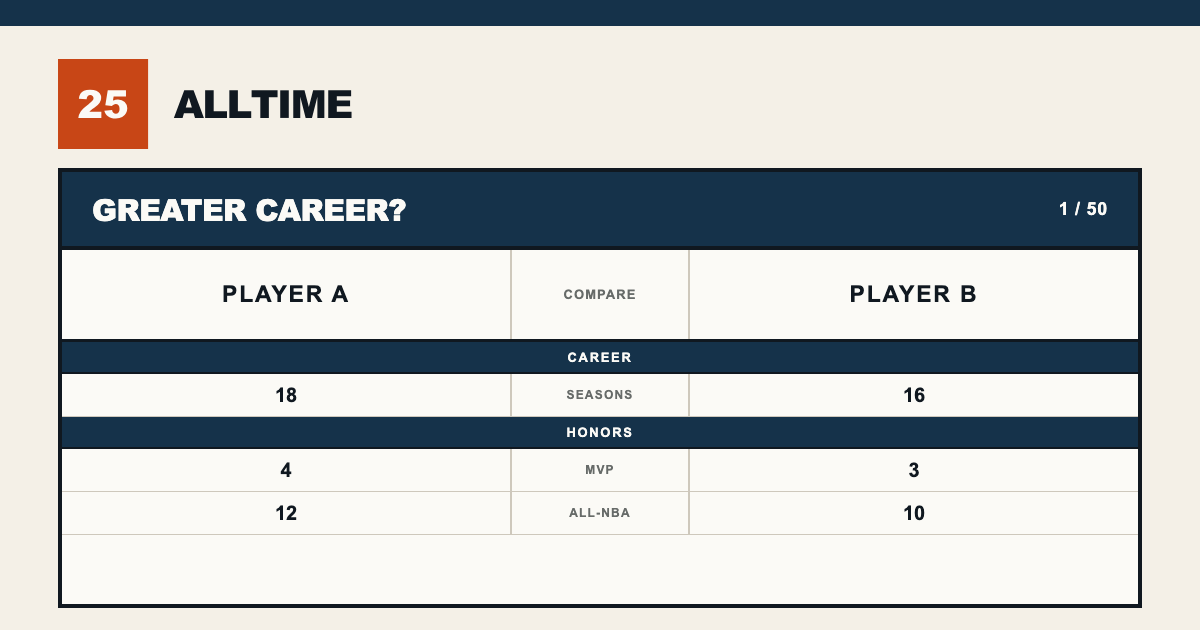
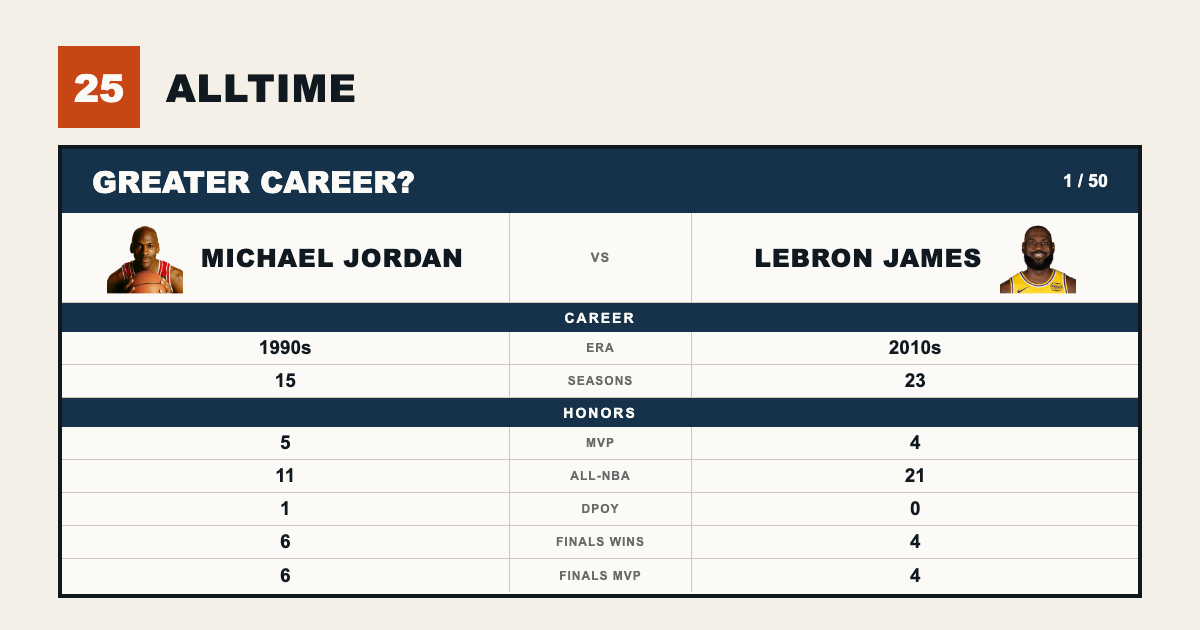
feat(seo): refresh social preview

diff --git a/apps/web/index.html b/apps/web/index.html
@@ -27,14 +27,18 @@
     <meta property="og:url" content="https://alltime25.com/" />
     <meta
       property="og:image"
-      content="https://alltime25.com/social/alltime25-preview.png"
+      content="https://alltime25.com/social/alltime25-preview.png?v=2"
+    />
+    <meta
+      property="og:image:secure_url"
+      content="https://alltime25.com/social/alltime25-preview.png?v=2"
     />
     <meta property="og:image:type" content="image/png" />
     <meta property="og:image:width" content="1200" />
     <meta property="og:image:height" content="630" />
     <meta
       property="og:image:alt"
-      content="AllTime25 NBA player ranking comparison"
+      content="Michael Jordan and LeBron James portraits with an AllTime25 career comparison"
     />
 
     <meta name="twitter:card" content="summary_large_image" />
@@ -48,11 +52,11 @@
     />
     <meta
       name="twitter:image"
-      content="https://alltime25.com/social/alltime25-preview.png"
+      content="https://alltime25.com/social/alltime25-preview.png?v=2"
     />
     <meta
       name="twitter:image:alt"
-      content="AllTime25 NBA player ranking comparison"
+      content="Michael Jordan and LeBron James portraits with an AllTime25 career comparison"
     />
 
     <script type="application/ld+json">

diff --git a/apps/web/how-it-works/index.html b/apps/web/how-it-works/index.html
@@ -20,7 +20,27 @@
     <meta property="og:url" content="https://alltime25.com/how-it-works/" />
     <meta
       property="og:image"
-      content="https://alltime25.com/social/alltime25-preview.png"
+      content="https://alltime25.com/social/alltime25-preview.png?v=2"
+    />
+    <meta
+      property="og:image:secure_url"
+      content="https://alltime25.com/social/alltime25-preview.png?v=2"
+    />
+    <meta property="og:image:type" content="image/png" />
+    <meta property="og:image:width" content="1200" />
+    <meta property="og:image:height" content="630" />
+    <meta
+      property="og:image:alt"
+      content="Michael Jordan and LeBron James portraits with an AllTime25 career comparison"
+    />
+    <meta name="twitter:card" content="summary_large_image" />
+    <meta
+      name="twitter:image"
+      content="https://alltime25.com/social/alltime25-preview.png?v=2"
+    />
+    <meta
+      name="twitter:image:alt"
+      content="Michael Jordan and LeBron James portraits with an AllTime25 career comparison"
     />
     <title>How It Works — AllTime25</title>
   </head>

diff --git a/apps/web/privacy/index.html b/apps/web/privacy/index.html
@@ -20,7 +20,27 @@
     <meta property="og:url" content="https://alltime25.com/privacy/" />
     <meta
       property="og:image"
-      content="https://alltime25.com/social/alltime25-preview.png"
+      content="https://alltime25.com/social/alltime25-preview.png?v=2"
+    />
+    <meta
+      property="og:image:secure_url"
+      content="https://alltime25.com/social/alltime25-preview.png?v=2"
+    />
+    <meta property="og:image:type" content="image/png" />
+    <meta property="og:image:width" content="1200" />
+    <meta property="og:image:height" content="630" />
+    <meta
+      property="og:image:alt"
+      content="Michael Jordan and LeBron James portraits with an AllTime25 career comparison"
+    />
+    <meta name="twitter:card" content="summary_large_image" />
+    <meta
+      name="twitter:image"
+      content="https://alltime25.com/social/alltime25-preview.png?v=2"
+    />
+    <meta
+      name="twitter:image:alt"
+      content="Michael Jordan and LeBron James portraits with an AllTime25 career comparison"
     />
     <title>Privacy — AllTime25</title>
   </head>

diff --git a/apps/web/data/index.html b/apps/web/data/index.html
@@ -20,7 +20,27 @@
     <meta property="og:url" content="https://alltime25.com/data/" />
     <meta
       property="og:image"
-      content="https://alltime25.com/social/alltime25-preview.png"
+      content="https://alltime25.com/social/alltime25-preview.png?v=2"
+    />
+    <meta
+      property="og:image:secure_url"
+      content="https://alltime25.com/social/alltime25-preview.png?v=2"
+    />
+    <meta property="og:image:type" content="image/png" />
+    <meta property="og:image:width" content="1200" />
+    <meta property="og:image:height" content="630" />
+    <meta
+      property="og:image:alt"
+      content="Michael Jordan and LeBron James portraits with an AllTime25 career comparison"
+    />
+    <meta name="twitter:card" content="summary_large_image" />
+    <meta
+      name="twitter:image"
+      content="https://alltime25.com/social/alltime25-preview.png?v=2"
+    />
+    <meta
+      name="twitter:image:alt"
+      content="Michael Jordan and LeBron James portraits with an AllTime25 career comparison"
     />
     <title>Data — AllTime25</title>
   </head>
